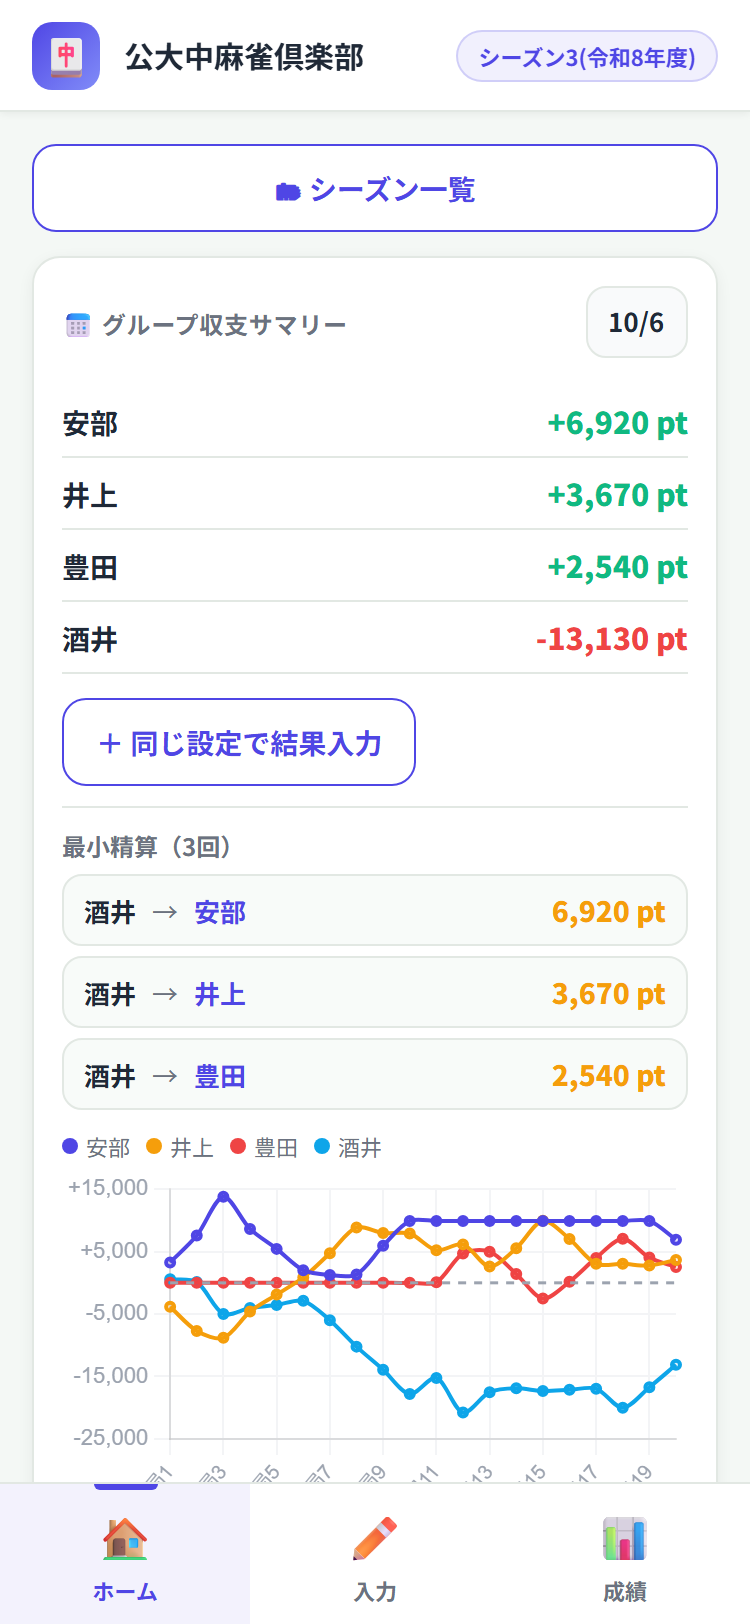
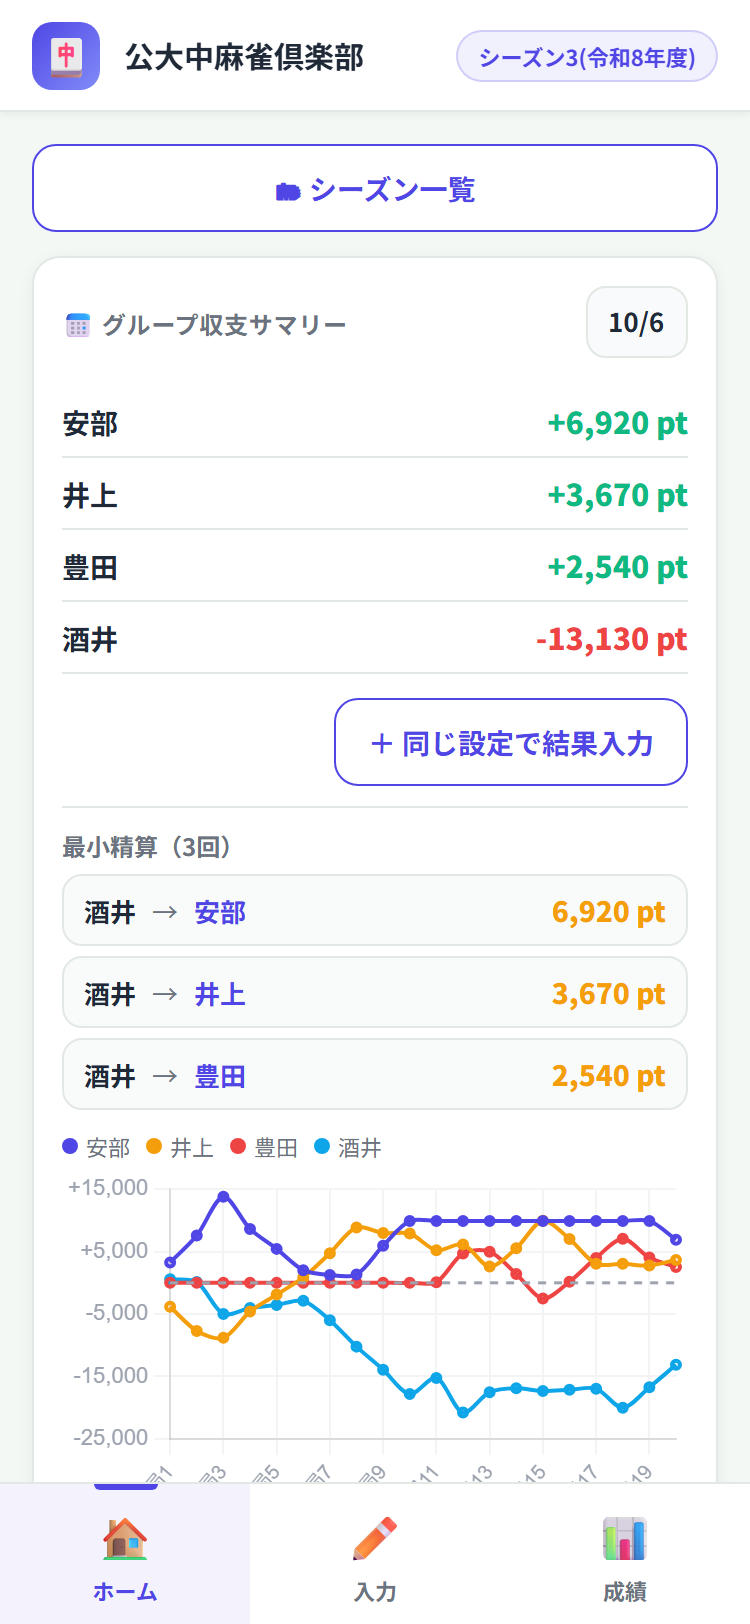
style: 「同じ設定で結果入力」を右端に寄せ、入力の補足文から括弧を削除
- ホームのグループ収支サマリーの「＋ 同じ設定で結果入力」を
  左端から右端に移動（.btn-right で margin-left:auto）
- 入力画面の「残り〇名を入力してください（目標 140,000点）」の
  括弧内を削除。目標値は合計欄に「42,300 / 140,000」と出ているため不要

検証
- measure-home  : 3端末すべてで12人/12人 ✅
- verify-visual : 表示される数値は変更前と完全一致・コンソールエラー0件
- shots         : 375/430px で横スクロール0件
- verify-ui 10/10 / test-ui-flow 28/28 / test-history-ui 36/36

Changed region(s): [[0.184, 0.431, 0.8587, 0.4926], [0.8893, 0.431, 0.92, 0.4618]]

diff --git a/input.html b/input.html
@@ -684,7 +684,7 @@ function updateRawSum() {
   el.innerHTML = `${v.sum.toLocaleString()} <span class="score-label">/ ${v.required.toLocaleString()}</span>`;
   if (!v.complete) {
     el.className = 'score-val warn';
-    hint.textContent = `残り ${v.missing} 名を入力してください（目標 ${v.required.toLocaleString()}点）`;
+    hint.textContent = `残り ${v.missing} 名を入力してください`;
   } else if (v.ok) {
     el.className = 'score-val ok';
     hint.textContent = '✅ 合計が一致しました。登録できます！';

diff --git a/index.html b/index.html
@@ -415,7 +415,7 @@ function renderGroupSummary(group) {
 
   // 同じ日・同じメンバーで続けて打つための導線（groups行が特定できて対局がある場合のみ）
   const sameSetupHTML = (dayGames.length && findGroupRow(date, groupName))
-    ? `<button class="btn btn-past" style="margin-top:12px" onclick="goInputSameSetup()">＋ 同じ設定で結果入力</button>`
+    ? `<button class="btn btn-past btn-right" onclick="goInputSameSetup()">＋ 同じ設定で結果入力</button>`
     : '';
 
   el.innerHTML = `

diff --git a/common.css b/common.css
@@ -114,6 +114,12 @@ body { padding-bottom: calc(90px + env(safe-area-inset-bottom)); }
 .form-label { font-size: 12px; margin-bottom: 6px; }
 .chart-wrap { height: 180px; }
 .legend-item span { font-size: 11px; }
+/* 「同じ設定で結果入力」は右端に寄せる */
+.btn-right {
+  display: flex;
+  margin-left: auto;
+  margin-top: 12px;
+}
 /* 「シーズン一覧」は主役ではないので控えめにする */
 .btn-past {
   width: auto;
